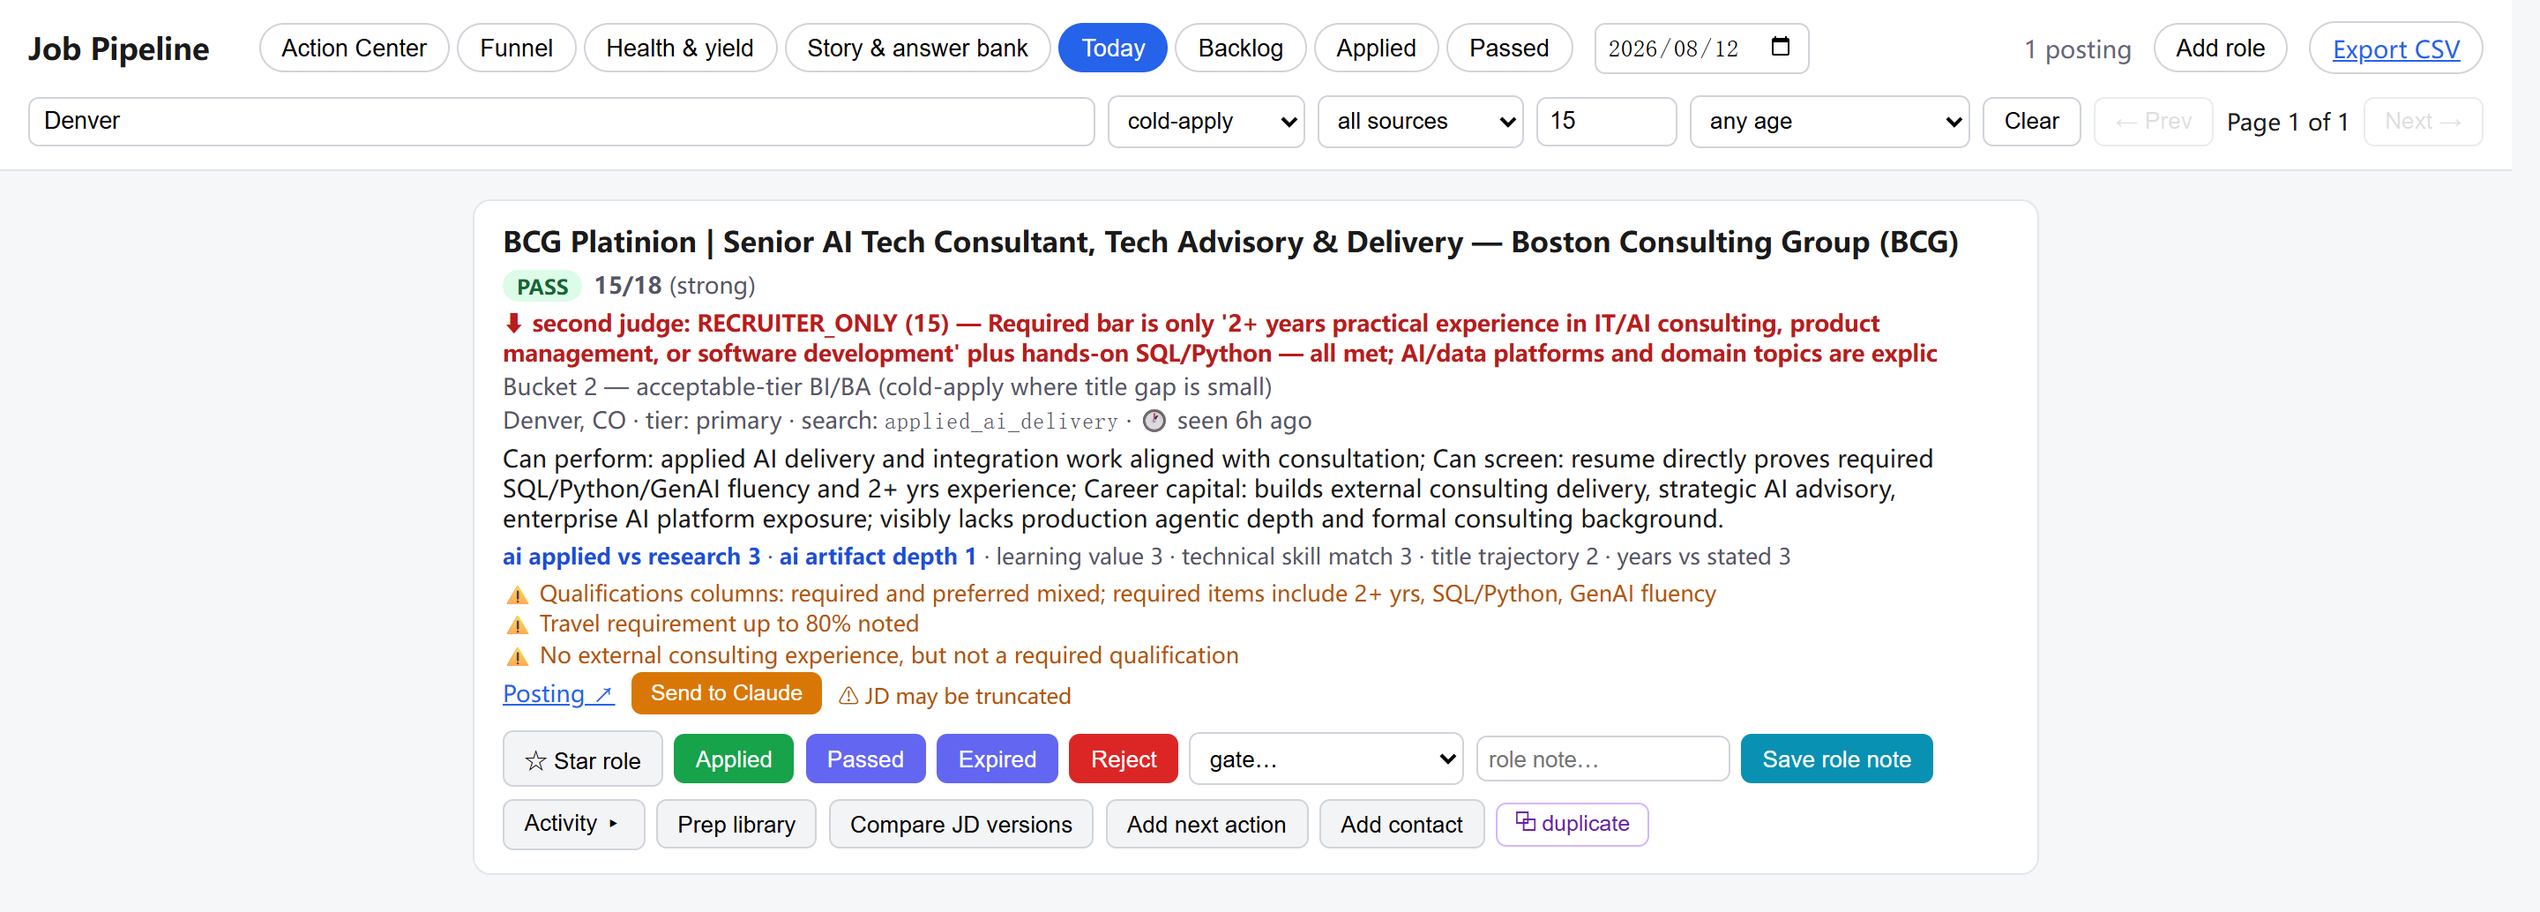
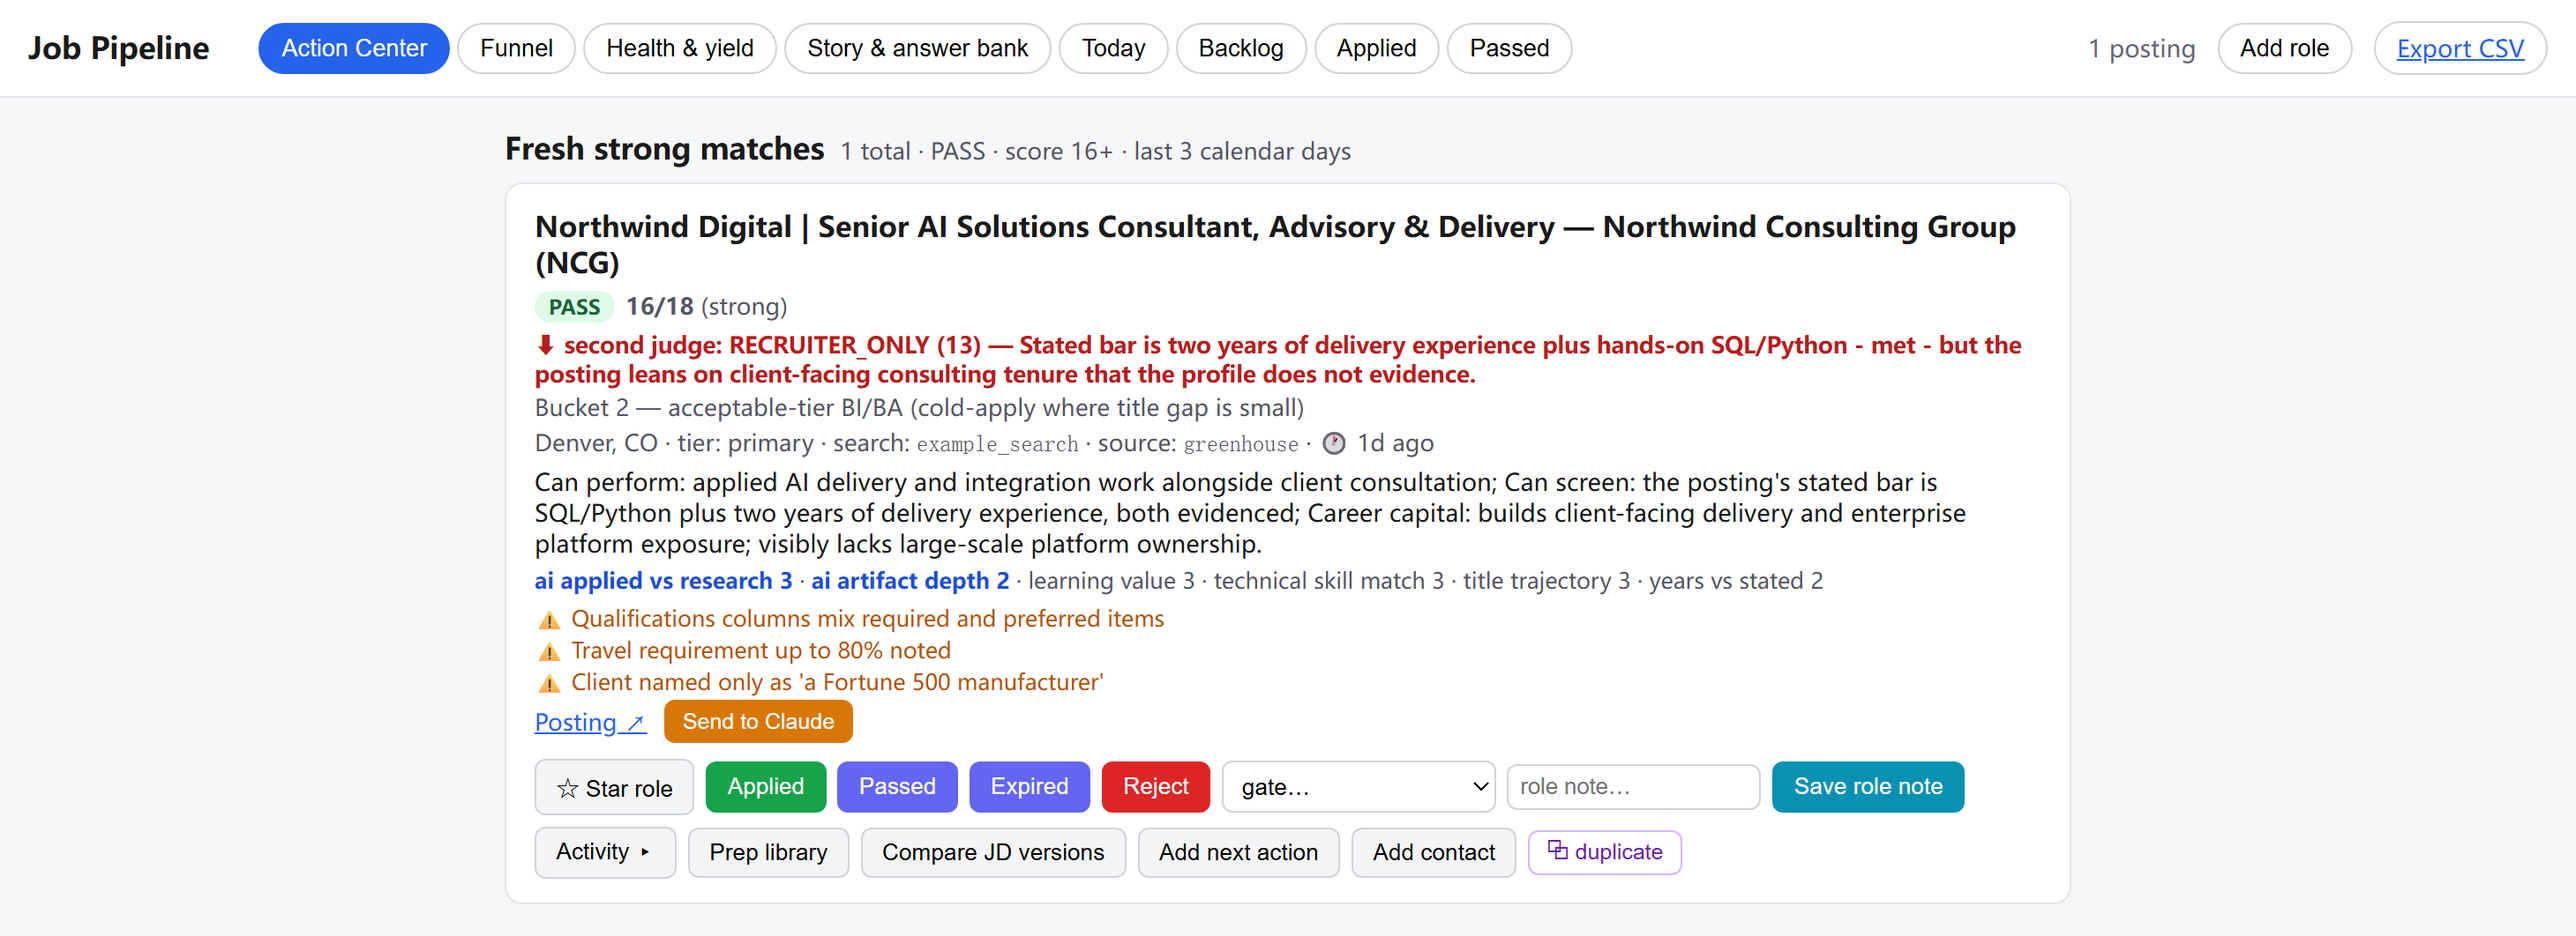
docs: rebuild the README screenshot from synthetic data; drop local absolute paths
The README hero image was a real card: a named employer and posting, the
model's read of this candidate against it ("visibly lacks production agentic
depth and formal consulting background"), the actual score breakdown, and
warning flags quoting the real JD. The repo's own rule is that committed
CHANGELOG entries carry no real posting or company names, and that README,
screenshots, and outward copy follow the same line - this predated it.

Replaced with a card rendered from a synthetic one-row database (fictional
employer, fictional JD observations, invented scores) served through the real
UI, so it still shows exactly what the alt text promises: verdict, score
breakdown, bucket, a dissenting second-judge line, warning flags, and the
one-click decision row. Bucket wording is unchanged - "acceptable-tier BI/BA"
is report.BUCKET_LABELS, published vocabulary, not leaked evidence.

Recipe, if it needs regenerating: build a demo DB with core.get_db against a
config whose settings.db_path points elsewhere, insert one evaluated row plus
one second_opinions row with status='done' (not 'collected' - that status is
what app._visible_opinion gates the dissent line on), serve with
core.load_config patched before app is imported, and screenshot headless.

Also swapped five D:\Github\learning_path\... references in AGENTS.md and
docs/career_strategy_alignment.md for sibling-relative paths, and the
run_canary.bat scheduler comment for a generic one. No local drive layout in
[…]

diff --git a/AGENTS.md b/AGENTS.md
@@ -620,9 +620,9 @@ Read `CLAUDE.md` for the repository's existing workflow and evidence rules.
 
 For career-related claims, also read:
 
-- `D:\Github\learning_path\governance\CROSS_PROJECT_RULES.md`
-- `D:\Github\learning_path\assumptions\AI_CAREER_CLAIM_LEDGER.md`
-- `D:\Github\learning_path\decisions\D-2026-08-03_CAREER_REALIGNMENT.md`
+- `../learning_path/governance/CROSS_PROJECT_RULES.md`
+- `../learning_path/assumptions/AI_CAREER_CLAIM_LEDGER.md`
+- `../learning_path/decisions/D-2026-08-03_CAREER_REALIGNMENT.md`
 
 If the canonical files are unavailable, report the missing access instead of reconstructing them
 from memory.

diff --git a/docs/career_strategy_alignment.md b/docs/career_strategy_alignment.md
@@ -1,8 +1,8 @@
 # Career Strategy Alignment
 
 - Decision authority: `D-2026-08-03-CAREER-REALIGNMENT`
-- Canonical decision: `D:\Github\learning_path\decisions\D-2026-08-03_CAREER_REALIGNMENT.md`
-- Canonical strategy: `D:\Github\learning_path\CAREER_STRATEGY.md`
+- Canonical decision: `../learning_path/decisions/D-2026-08-03_CAREER_REALIGNMENT.md`
+- Canonical strategy: `../learning_path/CAREER_STRATEGY.md`
 - Downstream scope: job-posting evaluation semantics only; this project does not redefine long-term career strategy.
 - Effective date: 2026-08-03
 
